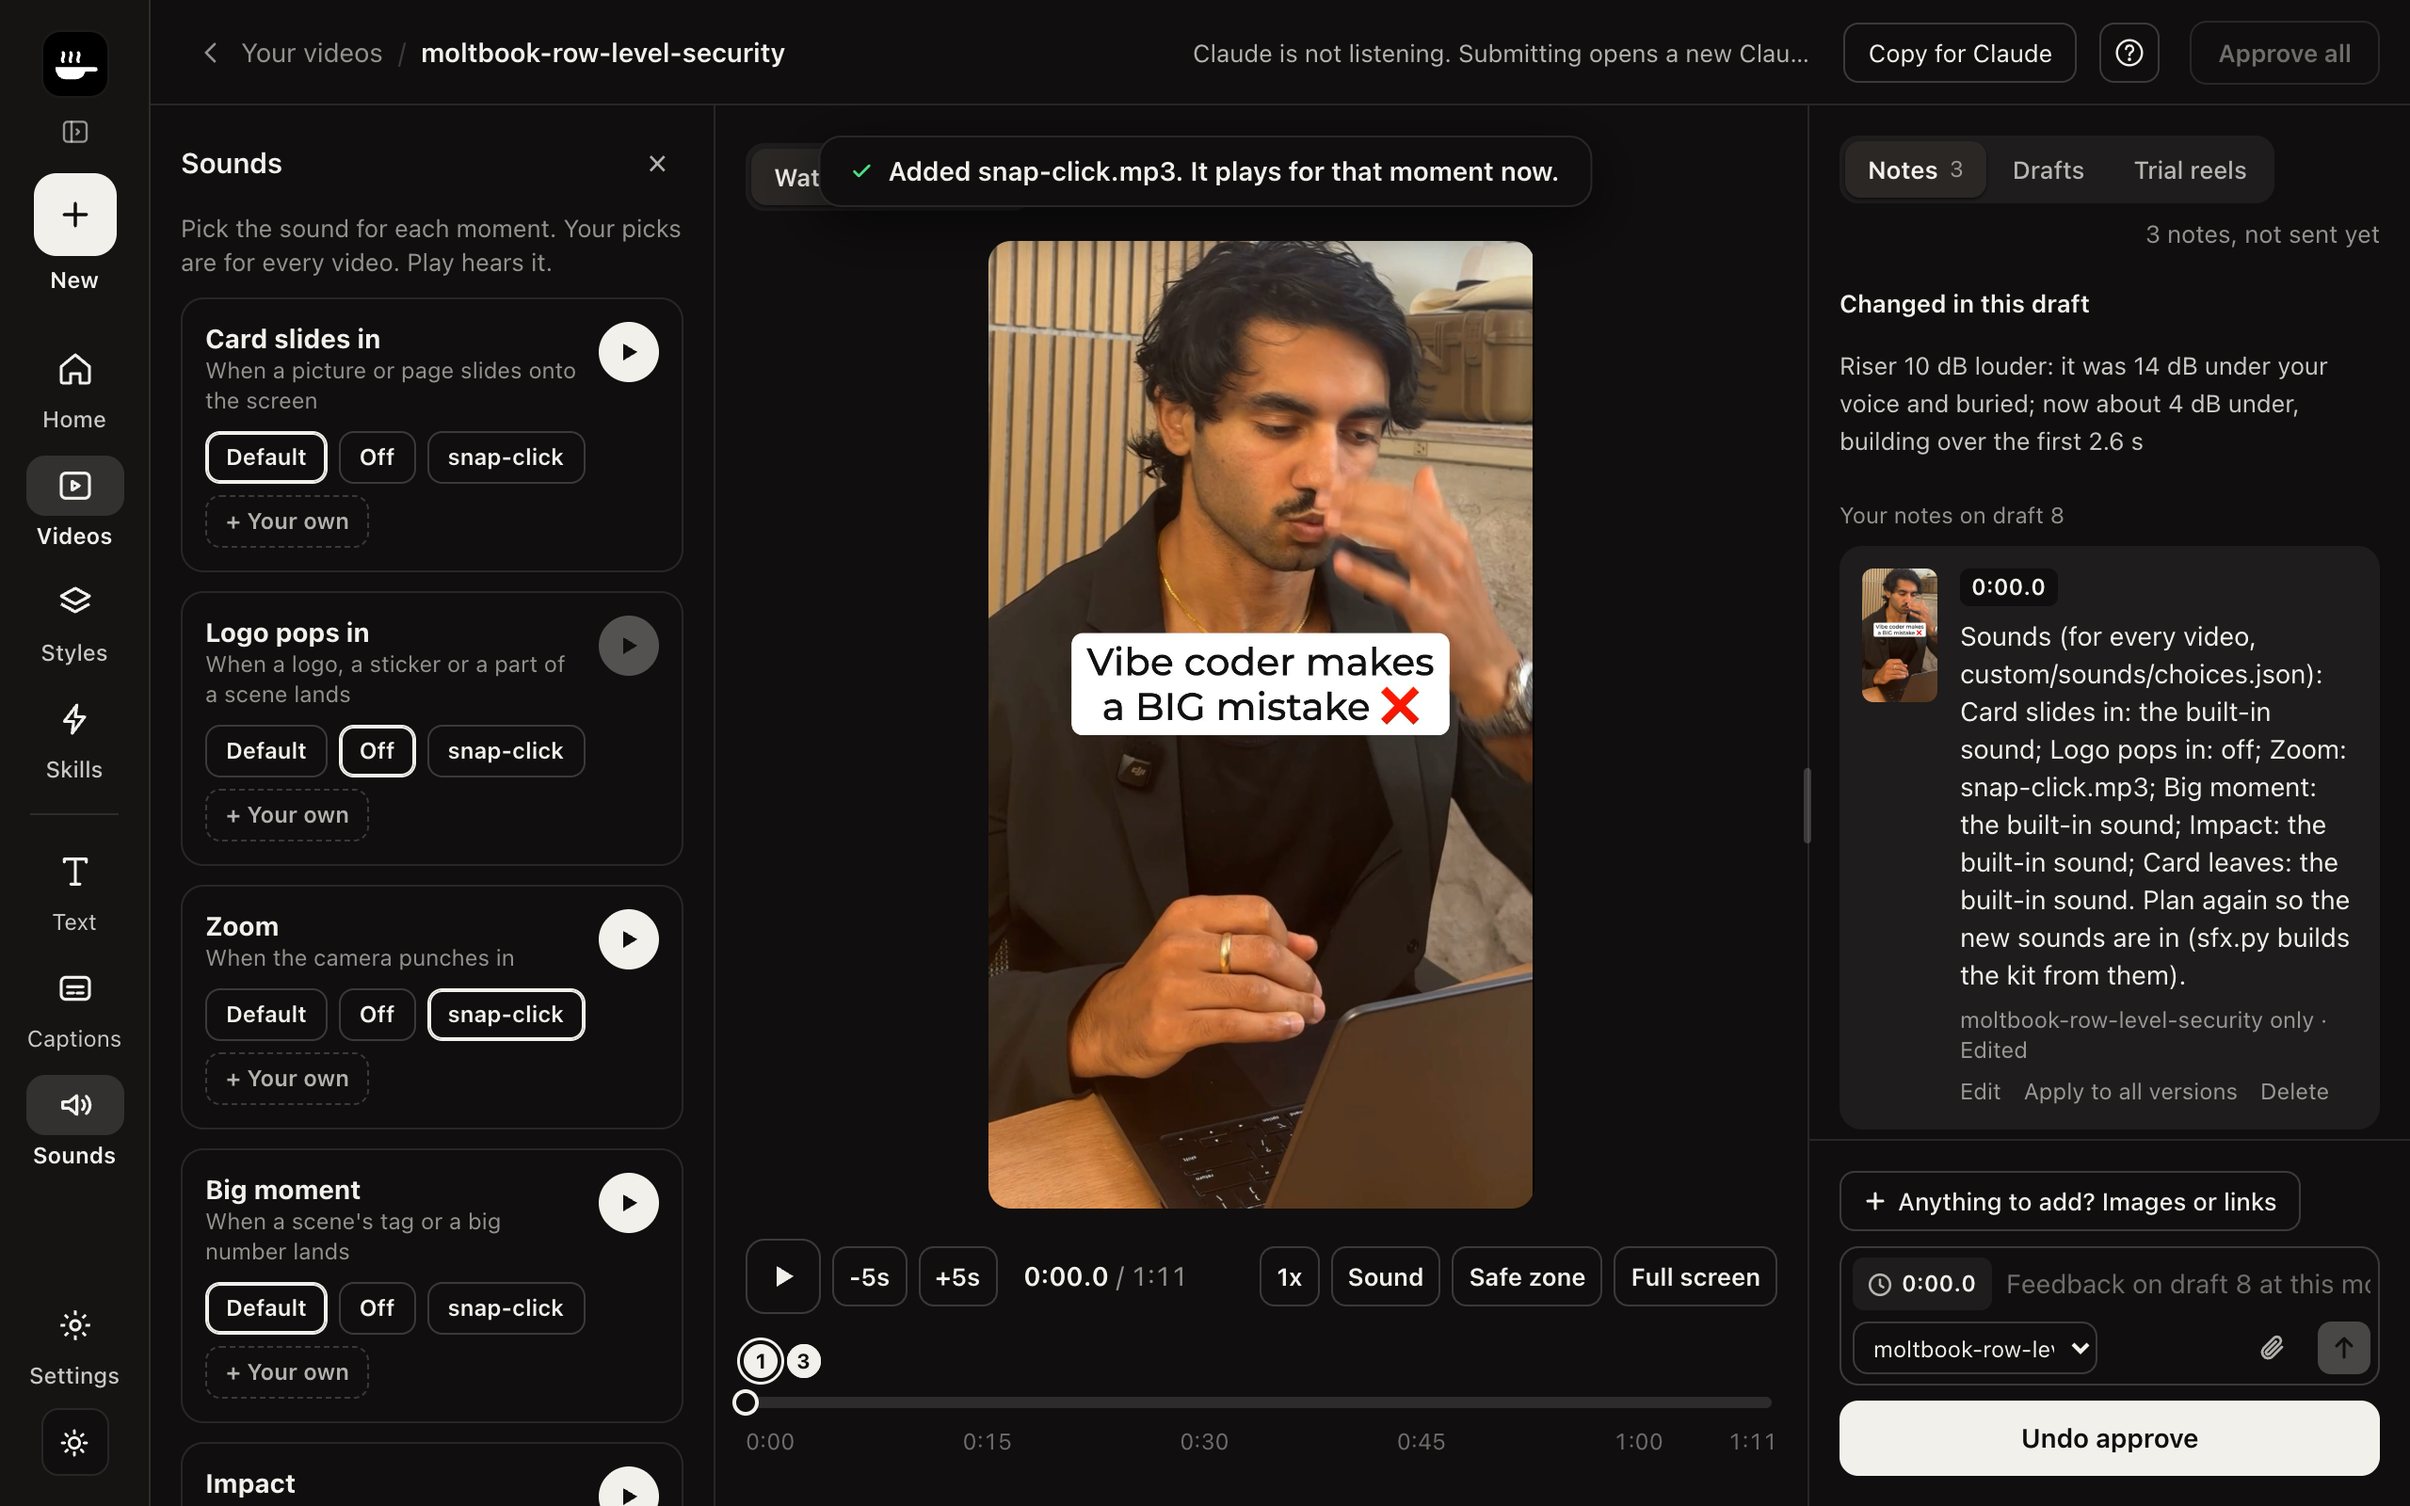
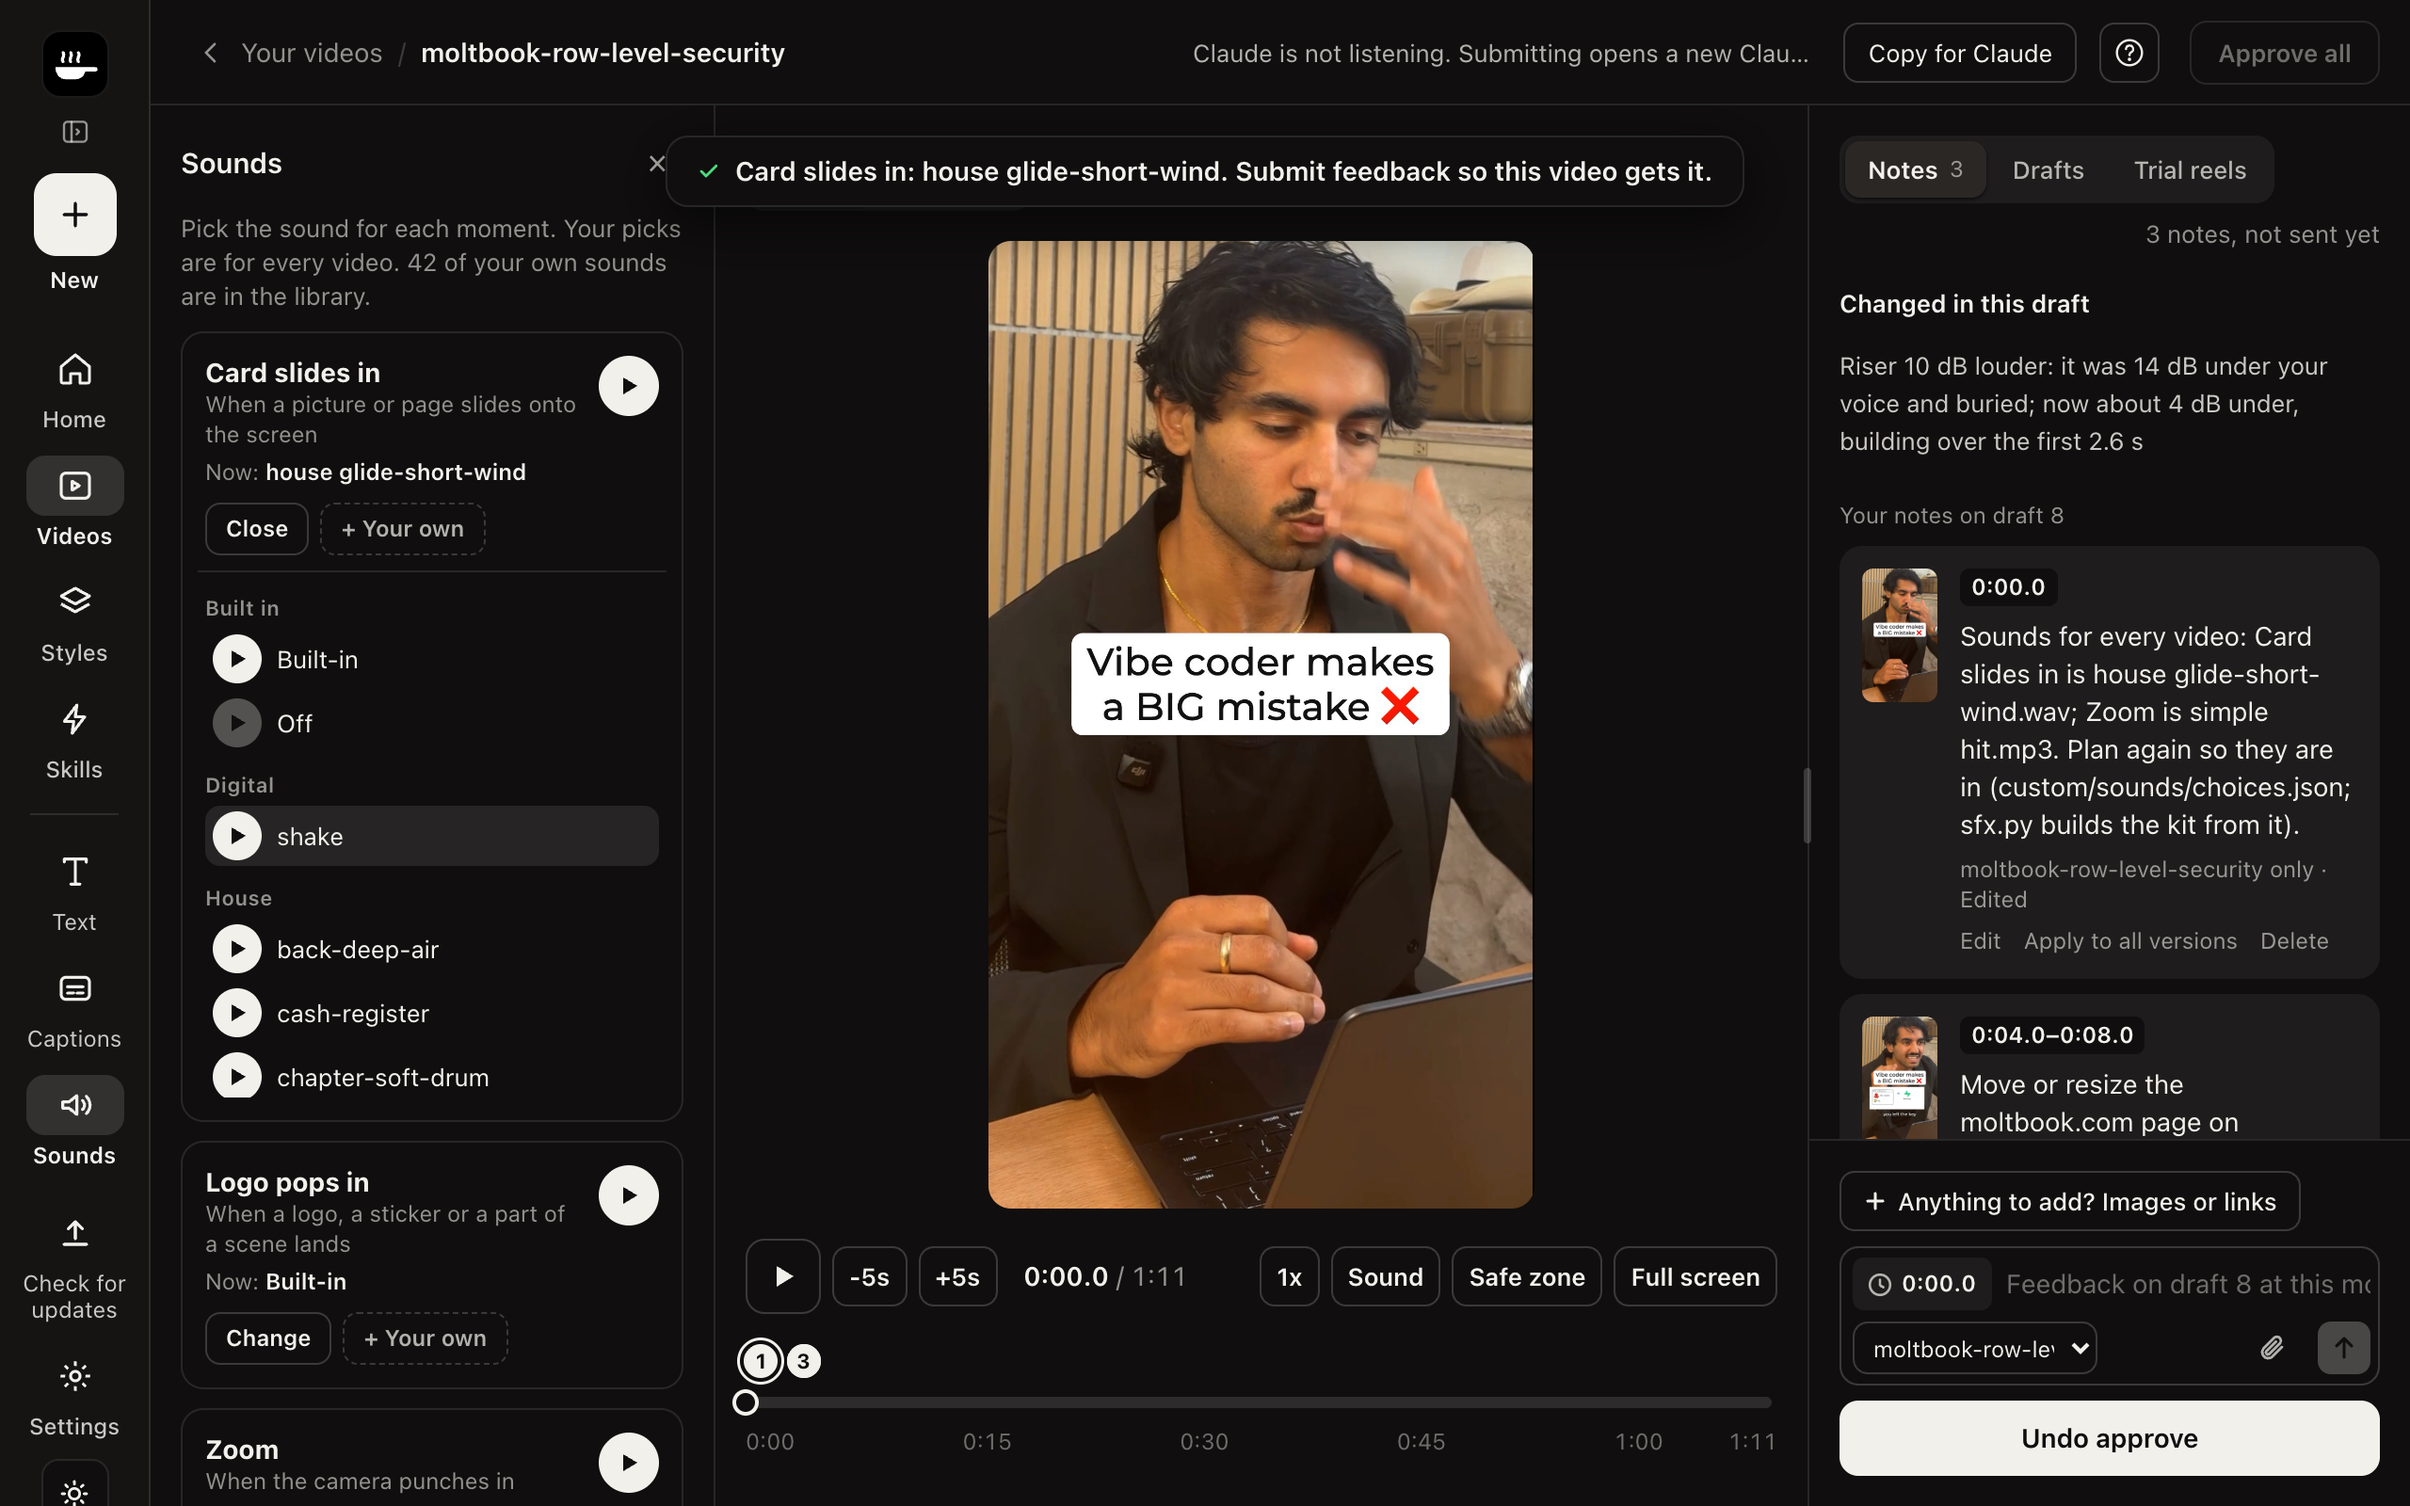
Sounds panel holds a big library: Change opens a grouped list
With Max's 42 sounds from past YouTube edits in his library, a button per
sound per moment was a wall. Each moment now shows what plays (Now: ...),
Play, Change and + Your own; Change opens one list grouped by the file's
first word (house, skit, simple, swoop, ...), each sound with its own play
button, one click to pick it.

diff --git a/plugins/ai-editor/lib/ai_editor/review.html b/plugins/ai-editor/lib/ai_editor/review.html
@@ -395,6 +395,12 @@ body.tside #tside{display:flex}
 .splay{width:32px;height:32px;border-radius:16px;flex-shrink:0;display:grid;place-items:center;background:var(--ink);color:var(--onink)}.splay:disabled{opacity:.3}
 .sopts{display:flex;flex-wrap:wrap;gap:6px}.sopts button{height:28px;max-width:100%;padding:0 10px;border-radius:8px;border:1px solid var(--line2);font-size:12px;font-weight:600;color:var(--ink);overflow:hidden;text-overflow:ellipsis;white-space:nowrap}
 .sopts button:hover{border-color:var(--ink)}.sopts button.on{border-color:var(--ink);box-shadow:inset 0 0 0 1px var(--ink)}.sopts .sadd{border-style:dashed;color:var(--body)}
+.snow{margin-top:4px}.snow strong{color:var(--strong);font-weight:600}
+.slist{display:flex;flex-direction:column;gap:2px;max-height:280px;overflow:auto;margin:0 -4px;padding:4px;border-top:1px solid var(--line)}
+.slist h4{margin:8px 0 2px;font-size:11px;line-height:14px;font-weight:600;letter-spacing:.02em;color:var(--muted)}
+.sitem{display:flex;align-items:center;gap:8px;padding:3px 4px;border-radius:8px}.sitem:hover{background:var(--hover)}.sitem.on{background:var(--chip)}
+.sitem .spick{flex:1;min-width:0;text-align:left;font-size:13px;line-height:18px;color:var(--strong);overflow:hidden;text-overflow:ellipsis;white-space:nowrap;padding:2px 0}
+.sitem span{font-size:11px;color:var(--muted);flex-shrink:0}.splay.sm{width:26px;height:26px;border-radius:13px}
 #cbody{flex:1;min-height:0;overflow:auto;padding:4px 16px 16px;display:flex;flex-direction:column;gap:14px}
 .cgroup{display:grid;grid-template-columns:repeat(4,1fr);gap:6px}.cgroup button{height:36px;border-radius:8px;border:1px solid var(--line2);font-size:13px;font-weight:600;color:var(--ink)}
 .cgroup button:hover{border-color:var(--ink)}.cgroup button.on{border-color:var(--ink);box-shadow:inset 0 0 0 1px var(--ink)}
@@ -1766,18 +1772,24 @@ $('cbody').addEventListener('click',async e=>{const w=e.target.closest('[data-cw
 const PLAY='<svg width="14" height="14" viewBox="0 0 14 14"><path d="M4 2.5v9l7.5-4.5z" fill="currentColor"/></svg>';
 let sndAudio=null,sndFor=null;
 function sndPlay(cue,c){if(sndAudio)sndAudio.pause();if(c==='none')return;sndAudio=new Audio(`/sound-preview?cue=${encodeURIComponent(cue)}&c=${encodeURIComponent(c)}`);sndAudio.play().catch(()=>toast('Could not play that sound'))}
-function renderSndPanel(){const b=$('sbody'),u=(S&&S.sounds_ui)||{cues:[],own:[]},sig=JSON.stringify(u);if(b._s===sig)return;b._s=sig;
-  const nm=f=>f.replace(/\.[a-z0-9]+$/i,'');
-  b.innerHTML=`<p class="tsub">Pick the sound for each moment. Your picks are for every video. Play hears it.</p>`+u.cues.map(x=>`<div class="srow"><div class="sh"><div><b>${esc(x.label)}</b><small>When ${esc(x.when)}</small></div>
-    <button class="splay" data-sp="${esc(x.cue)}" title="Play what is picked"${x.choice==='none'?' disabled':''}>${PLAY}</button></div>
-    <div class="sopts">${[['default','Default'],['none','Off'],...u.own.map(f=>[f,nm(f)])].map(([v,n])=>`<button data-sc="${esc(x.cue)}" data-sv="${esc(v)}"${x.choice===v?' class="on"':''} title="${esc(v==='default'?'The built-in sound':v==='none'?'No sound here':v)}">${esc(n)}</button>`).join('')}
-    <button class="sadd" data-sa="${esc(x.cue)}" title="Add a sound file for this moment">+ Your own</button></div></div>`).join('')}
-$('sbody').addEventListener('click',async e=>{const pl=e.target.closest('[data-sp]'),pk=e.target.closest('[data-sv]'),ad=e.target.closest('[data-sa]');
+let sndOpen=null;   // the moment whose list of sounds is open
+const sndName=f=>f==='default'?'Built-in':f==='none'?'Off':f.replace(/\.[a-z0-9]+$/i,'');
+function renderSndPanel(){const b=$('sbody'),u=(S&&S.sounds_ui)||{cues:[],own:[]},sig=JSON.stringify(u)+sndOpen;if(b._s===sig)return;b._s=sig;
+  const groups={};u.own.forEach(f=>{const m=f.match(/^([a-z0-9]+) /i),g=m?m[1]:'Yours';(groups[g]=groups[g]||[]).push(f)});
+  const item=(cue,f,on)=>`<div class="sitem${on?' on':''}"><button class="splay sm" data-pp="${esc(cue)}" data-pv="${esc(f)}" title="Play"${f==='none'?' disabled':''}>${PLAY}</button><button class="spick" data-sc="${esc(cue)}" data-sv="${esc(f)}">${esc(sndName(f).replace(/^[a-z0-9]+ /i,m=>groups[m.trim()]?'':m))}</button>${on?'<span>Picked</span>':''}</div>`;
+  b.innerHTML=`<p class="tsub">Pick the sound for each moment. Your picks are for every video. ${u.own.length} of your own sounds are in the library.</p>`+u.cues.map(x=>{const open=sndOpen===x.cue;
+    return `<div class="srow"><div class="sh"><div><b>${esc(x.label)}</b><small>When ${esc(x.when)}</small><small class="snow">Now: <strong>${esc(sndName(x.choice))}</strong></small></div>
+      <button class="splay" data-sp="${esc(x.cue)}" title="Play what is picked"${x.choice==='none'?' disabled':''}>${PLAY}</button></div>
+      <div class="sopts"><button data-so="${esc(x.cue)}">${open?'Close':'Change'}</button><button class="sadd" data-sa="${esc(x.cue)}" title="Add a sound file for this moment">+ Your own</button></div>
+      ${open?`<div class="slist"><h4>Built in</h4>${['default','none'].map(f=>item(x.cue,f,x.choice===f)).join('')}${Object.entries(groups).map(([g,fs])=>`<h4>${esc(g[0].toUpperCase()+g.slice(1))}</h4>${fs.map(f=>item(x.cue,f,x.choice===f)).join('')}`).join('')}</div>`:''}</div>`}).join('')}
+$('sbody').addEventListener('click',async e=>{const pl=e.target.closest('[data-sp]'),pp=e.target.closest('[data-pp]'),pk=e.target.closest('[data-sv]'),ad=e.target.closest('[data-sa]'),op=e.target.closest('[data-so]');
   if(pl){const x=((S.sounds_ui||{}).cues||[]).find(c=>c.cue===pl.dataset.sp);if(x)sndPlay(x.cue,x.choice);return}
+  if(pp)return sndPlay(pp.dataset.pp,pp.dataset.pv);
+  if(op){sndOpen=sndOpen===op.dataset.so?null:op.dataset.so;$('sbody')._s=null;renderSndPanel();return}
   if(ad){sndFor=ad.dataset.sa;$('sndfile').click();return}
   if(!pk)return;const cue=pk.dataset.sc,v=pk.dataset.sv;sndPlay(cue,v);
   const r=await post('/sound',{cue,choice:v});if(!r.ok&&!r.id)return toast(r.error||'That did not save.');
-  toast(`${(((S.sounds_ui||{}).cues||[]).find(c=>c.cue===cue)||{}).label||'Sound'}: ${v==='default'?'the built-in sound':v==='none'?'off':v.replace(/\.[a-z0-9]+$/i,'')}. Submit feedback so this video gets it.`);
+  toast(`${(((S.sounds_ui||{}).cues||[]).find(c=>c.cue===cue)||{}).label||'Sound'}: ${v==='default'?'the built-in sound':v==='none'?'off':sndName(v)}. Submit feedback so this video gets it.`);
   $('sbody')._s=null;await load()});
 $('sndfile').onchange=e=>{const f=e.target.files[0];e.target.value='';if(!f||!sndFor)return;
   if(f.size>10*1024*1024)return toast('Sounds under 10 MB only.');
